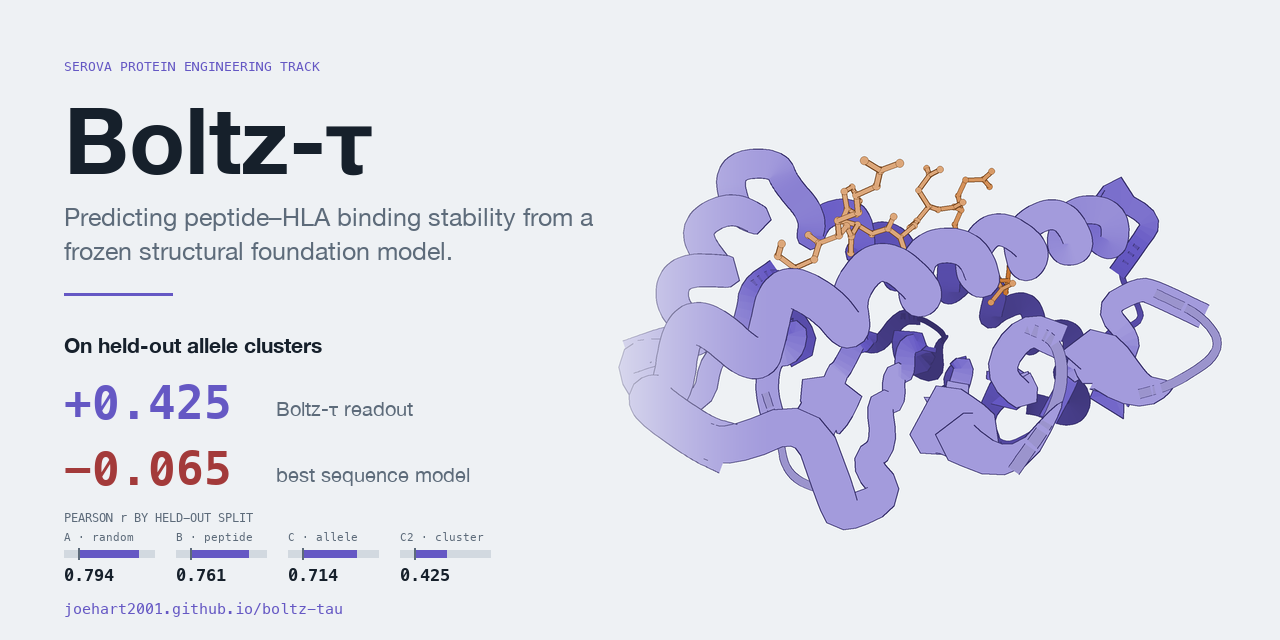
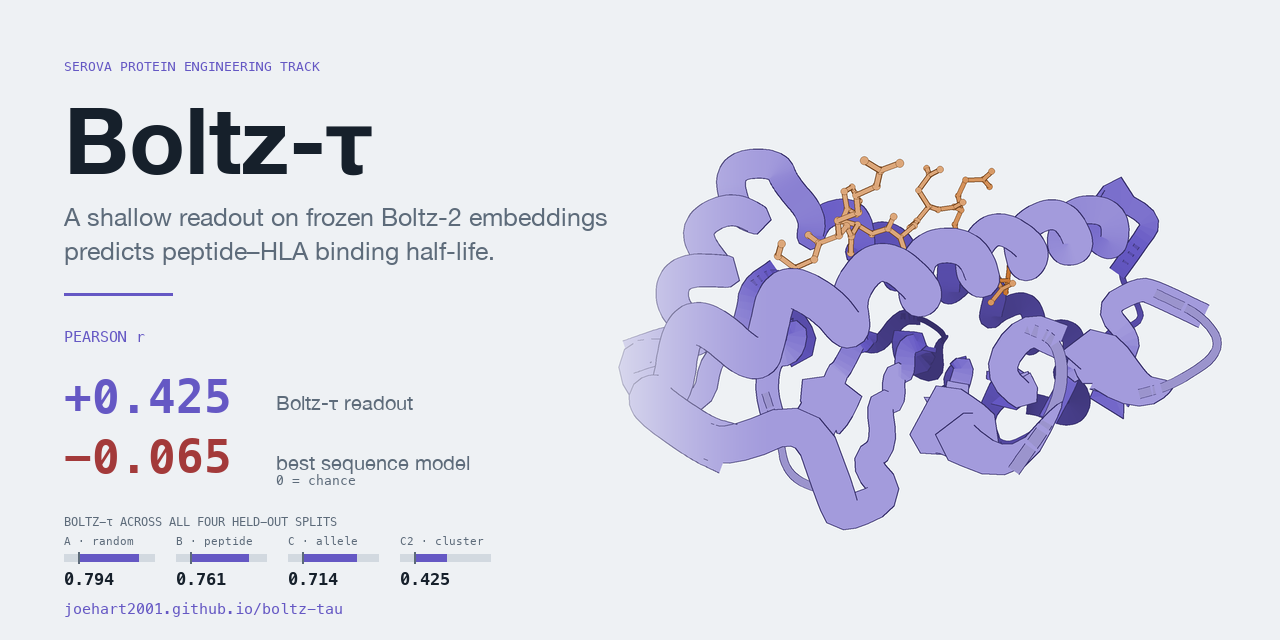
Update the cover to the Boltz-tau framing and label the numbers
Subtitle now matches the README's own description: a shallow readout on frozen
Boltz-2 embeddings predicting binding half-life. The headline pair is labelled
PEARSON r and the negative one carries "0 = chance", since two signed numbers
on their own did not say what they measured. The split strip says it is the
Boltz-tau readout rather than implying it covers every model.

diff --git a/demo_app_html/tools/render_cover.py b/demo_app_html/tools/render_cover.py
@@ -95,17 +95,18 @@ def main() -> None:
     y += 26
     d.text((x0, y), "Boltz-τ", font=font(SANS, 92, 1), fill=ink)
     y += 118
-    for part, col in ((" peptide–HLA binding stability from a", mute),):
-        d.text((x0, y), "Predicting" + part, font=font(SANS, 25), fill=col)
-    d.text((x0, y + 34), "frozen structural foundation model.", font=font(SANS, 25), fill=mute)
+    d.text((x0, y), "A shallow readout on frozen Boltz-2 embeddings",
+           font=font(SANS, 25), fill=mute)
+    d.text((x0, y + 34), "predicts peptide–HLA binding half-life.",
+           font=font(SANS, 25), fill=mute)
 
     y += 92
     d.line([(x0, y), (x0 + 108, y)], fill=accent, width=3)
 
     # --- the headline: the split where the sequence models stop working
-    y += 38
-    d.text((x0, y), "On held-out allele clusters", font=font(SANS, 21, 1), fill=ink)
-    y += 42
+    y += 34
+    d.text((x0, y), "PEARSON r", font=font(MONO, 15), fill=accent)
+    y += 40
 
     best_seq = {s: max(m[(mod, s)] for mod in SEQ_MODELS) for s, _ in SPLITS}
     pairs = [("Boltz-τ readout", m[("boltz2 (frozen)", "C2")], accent),
@@ -114,11 +115,13 @@ def main() -> None:
         d.text((x0, y + 2), f"{val:+.3f}".replace("-", "−"),
                font=font(MONO, 46, 1), fill=col)
         d.text((x0 + 212, y + 22), label, font=font(SANS, 20), fill=mute)
-        y += 66
+        if val < 0:
+            d.text((x0 + 212, y + 44), "0 = chance", font=font(MONO, 13), fill=mute)
+        y += 60
 
     # --- the four splits, as a strip
-    y += 4
-    d.text((x0, y), "PEARSON r BY HELD-OUT SPLIT", font=font(MONO, 12), fill=mute)
+    y += 26
+    d.text((x0, y), "BOLTZ-\u03c4 ACROSS ALL FOUR HELD-OUT SPLITS", font=font(MONO, 12), fill=mute)
     y += 20
     cw = 112
     for i, (key, name) in enumerate(SPLITS):
